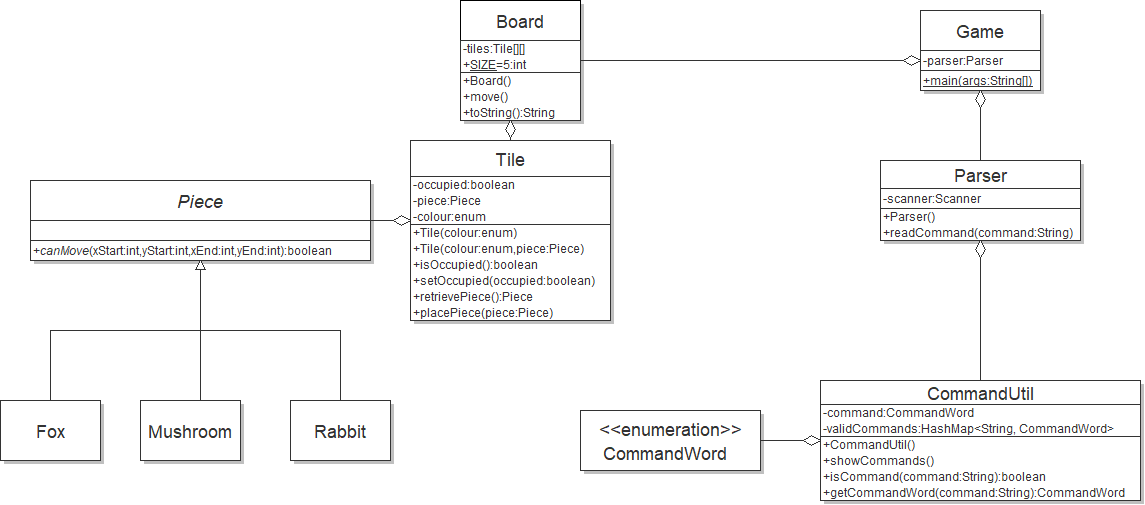
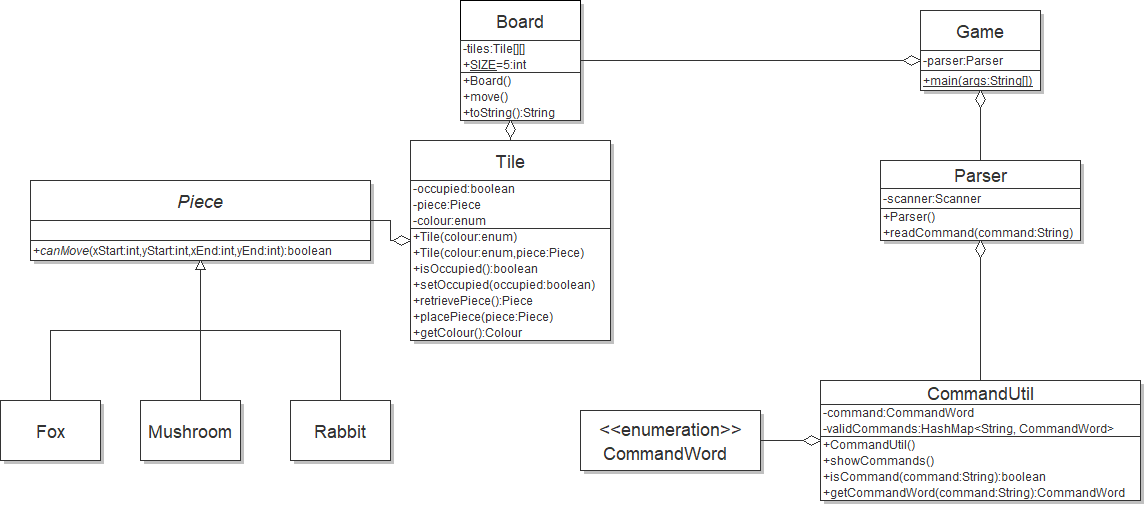
update a picture of the uml

Changed region(s): [[0.3362, 0.297, 0.5502, 0.6832]]

diff --git a/src/main/java/app/Piece.java b/src/main/java/app/Piece.java
@@ -1,7 +1,8 @@
 package app;
+
 /***
  * 
- * @author 
+ * @author
  *
  */
 public abstract class Piece {
@@ -9,7 +10,6 @@ public abstract class Piece {
 	/**
 	 * 
 	 */
-	abstract boolean canMove(int xStart,int yStart, int xEnd,int yEnd);
-
+	abstract boolean canMove(int xStart, int yStart, int xEnd, int yEnd);
 
 }

diff --git a/src/main/java/app/Game.java b/src/main/java/app/Game.java
@@ -8,12 +8,21 @@ package app;
  *
  */
 public class Game {
+	private Parser parser;
 
 	/**
 	 * 
 	 */
 	public Game() {
-		// TODO Auto-generated constructor stub
+		parser = new Parser();
+	}
+
+	/***
+	 * 
+	 * @param args
+	 */
+	public static void main(String[] args) {
+		
 	}
 
 }
